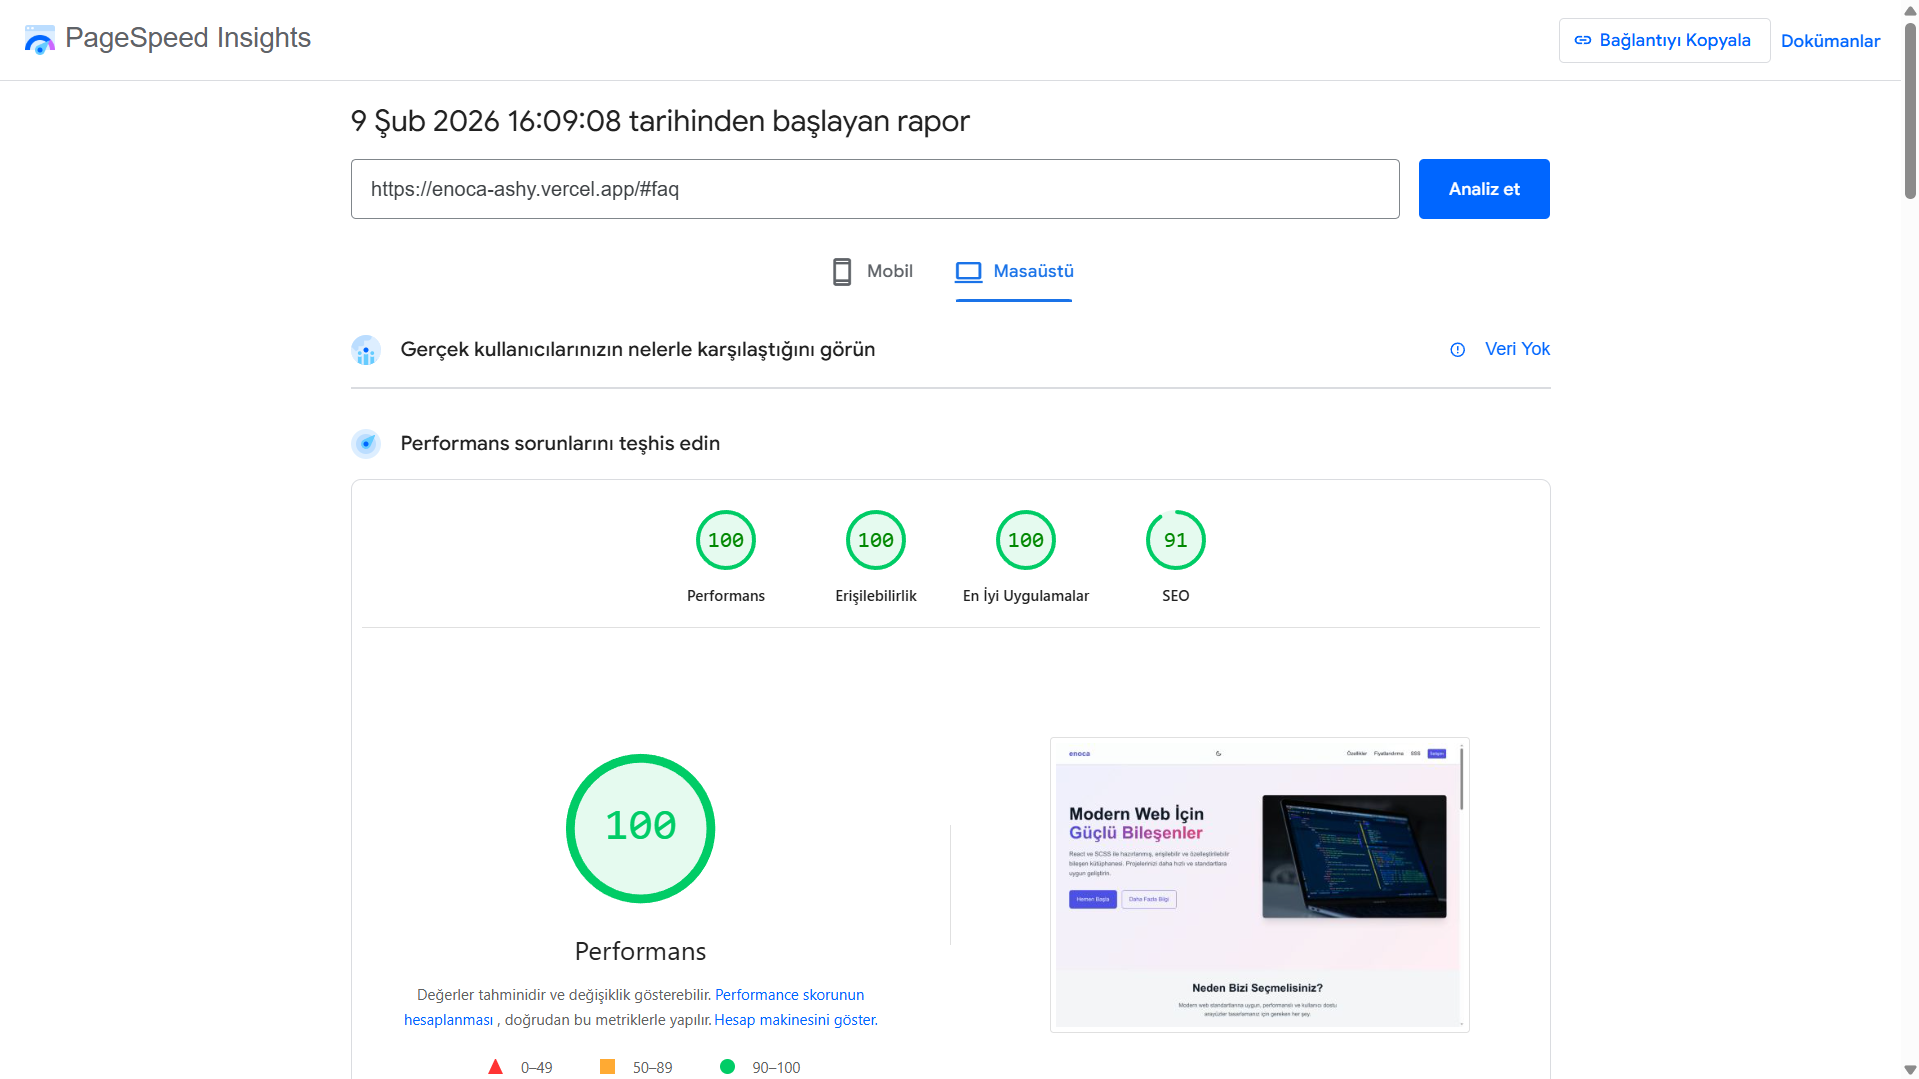
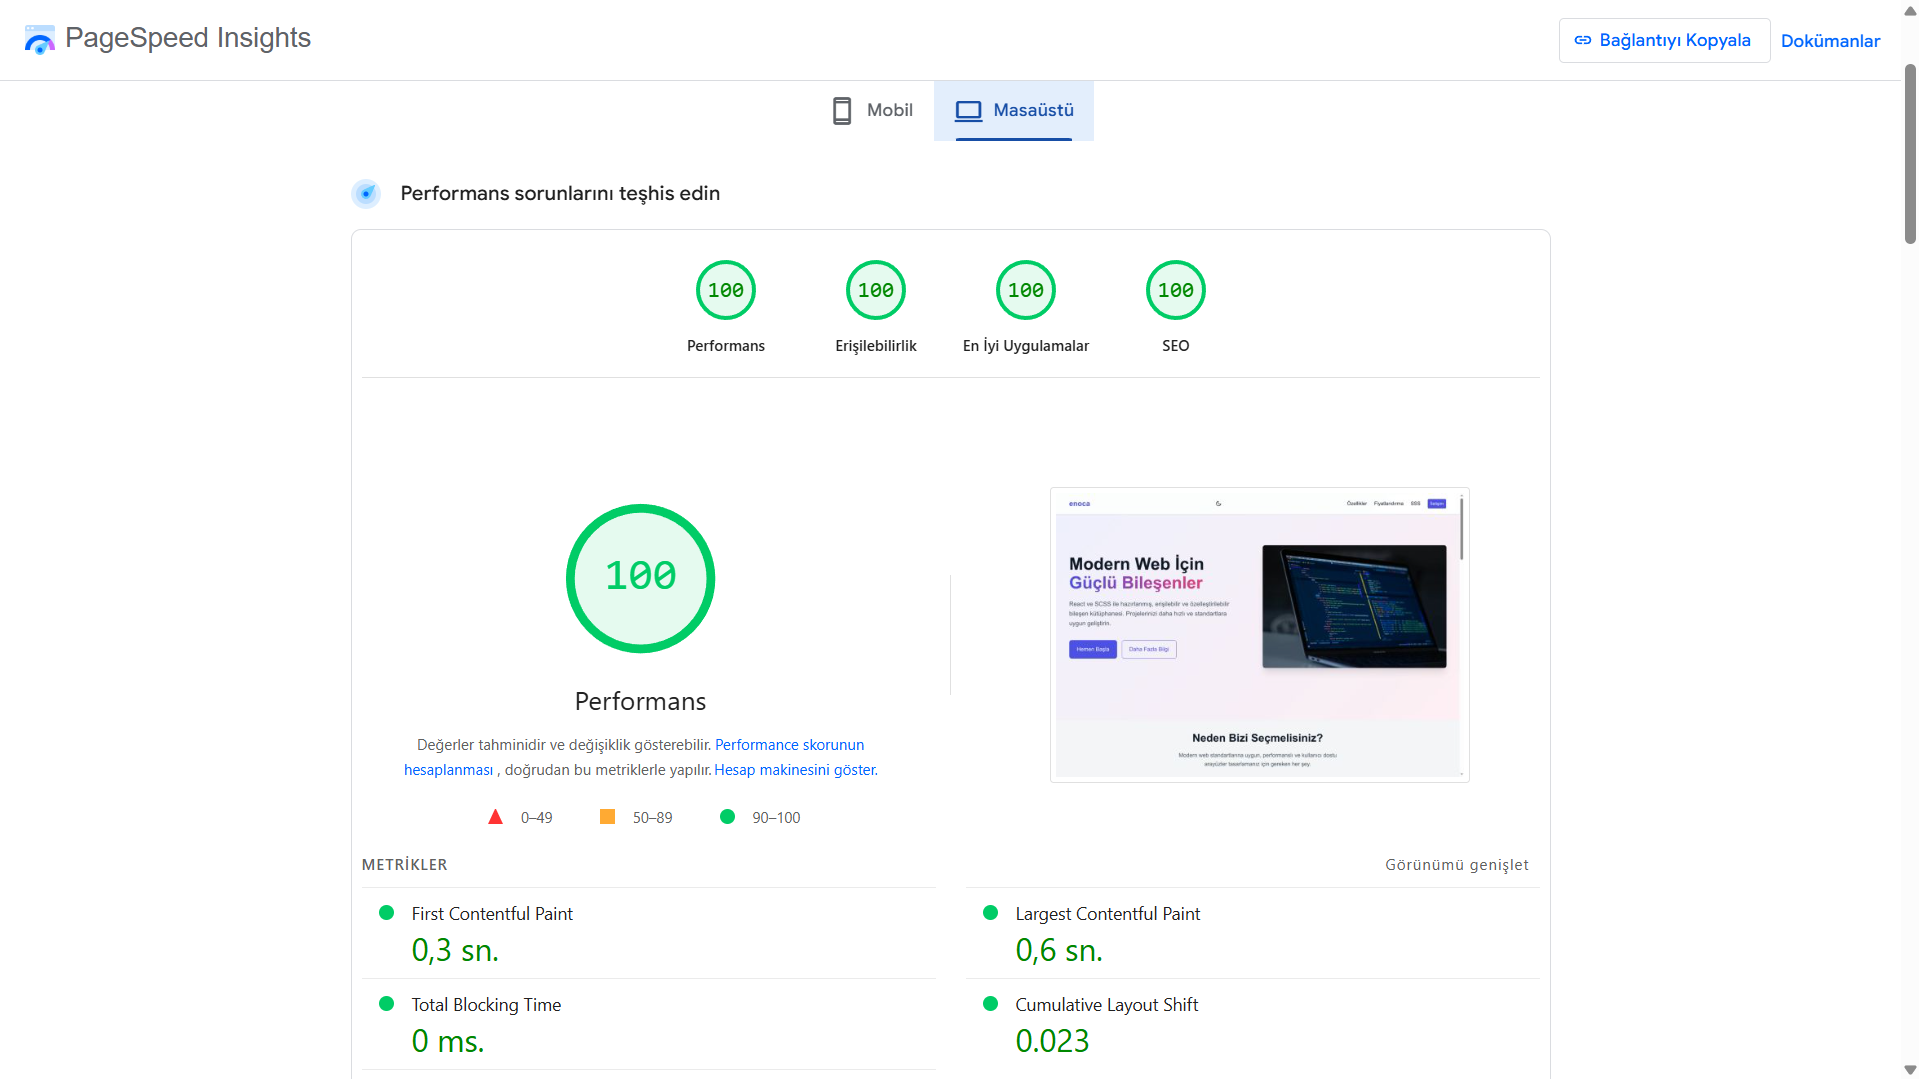
docs: update README with mobile and desktop lighthouse reports

diff --git a/src/components/layout/Header/Header.tsx b/src/components/layout/Header/Header.tsx
@@ -79,7 +79,19 @@ export const Header: React.FC = () => {
                     <a href="#features" className={styles.link} onClick={() => setIsMenuOpen(false)}>Özellikler</a>
                     <a href="#pricing" className={styles.link} onClick={() => setIsMenuOpen(false)}>Fiyatlandırma</a>
                     <a href="#faq" className={styles.link} onClick={() => setIsMenuOpen(false)}>SSS</a>
-                    <Button size="sm" onClick={() => setIsMenuOpen(false)}>İletişim</Button>
+                    <a href="#faq" className={styles.link} onClick={() => setIsMenuOpen(false)}>SSS</a>
+                    <Button
+                        size="sm"
+                        onClick={() => {
+                            setIsMenuOpen(false);
+                            const contactSection = document.getElementById('contact');
+                            if (contactSection) {
+                                contactSection.scrollIntoView({ behavior: 'smooth' });
+                            }
+                        }}
+                    >
+                        İletişim
+                    </Button>
                 </nav>
             </div>
         </header>

diff --git a/README.md b/README.md
@@ -81,9 +81,11 @@ Proje, `src/styles/_variables.scss` dosyasında tanımlanan CSS değişkenlerini
 
 *(SEO puanı için meta description eklendi, sonraki testte yükselecektir.)*
 
-![Lighthouse Raporu](./public/lighthouse-report.png)
+### Mobil
+![Lighthouse Raporu - Mobil](./public/lighthouse-report.png)
 
-*(Not: Bu görseli eklemek için projeyi build edip analiz ettikten sonra ekran görüntüsünü `public/lighthouse-report.png` olarak kaydedin.)*
+### Masaüstü
+![Lighthouse Raporu - Masaüstü](./public/lighthouse-report-desktop.png)
 
 ## 📝 Karar Kayıtları (ADR)
 
